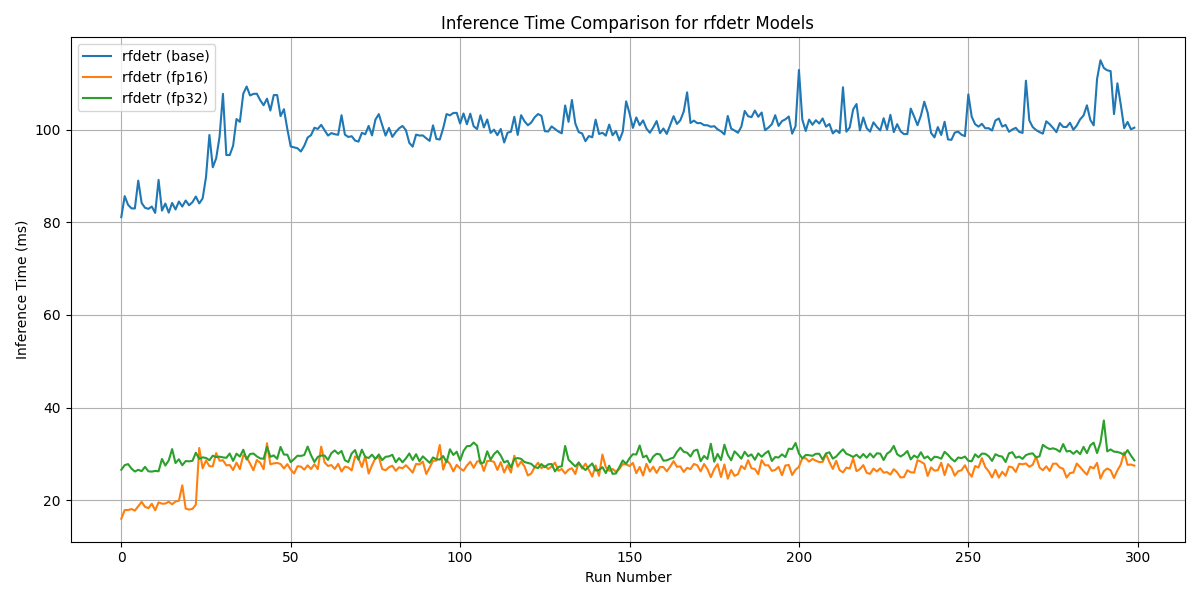
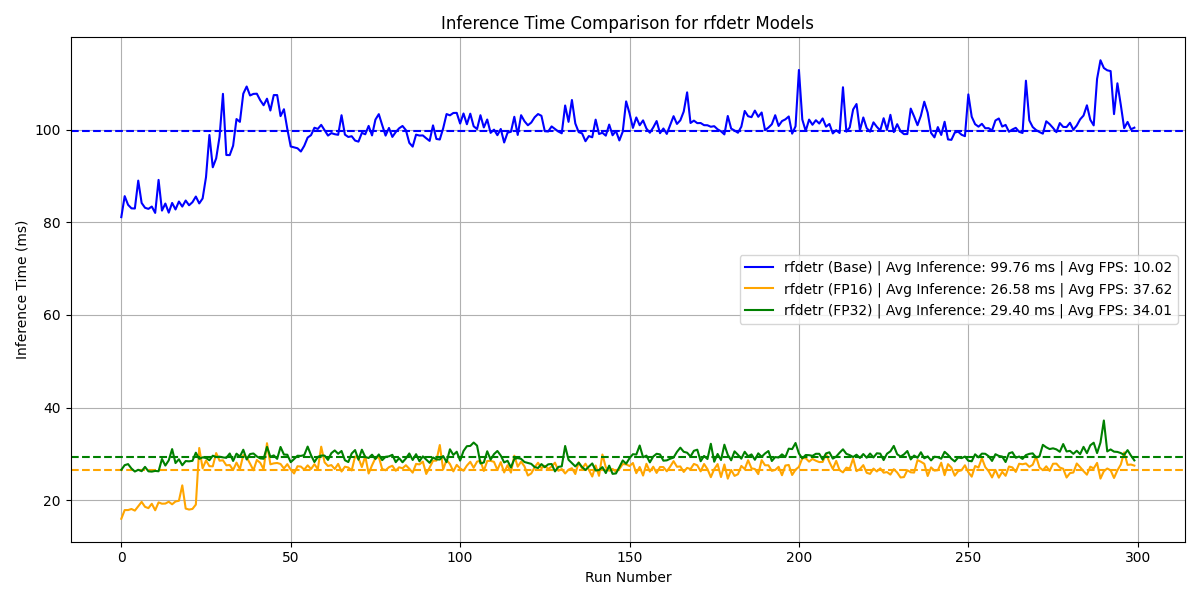
update benchmark plots

diff --git a/diagnostic.py b/diagnostic.py
@@ -2,14 +2,55 @@ from detector import Detector
 from trt_detector import TRTDetector
 from loader import DataLoader
 
-DATA_PATH = 'data/images/DJI_0002/'
-imgIdx = 10
+import matplotlib.pyplot as plt
+import numpy as np
+import pandas as pd
 
-loader = DataLoader(DATA_PATH)
-# loader.preview(imgIdx)
-loader.getImageInfo(imgIdx)
+# DATA_PATH = 'data/images/DJI_0002/'
+# imgIdx = 10
 
-rfdetr_base = Detector(modelName='rfdetr', confidenceThreshold=0.7)
-rfdetr_base.predict(loader[imgIdx], show=True, verbose=True)
-rfdetr_fp16 = TRTDetector(modelName='rfdetr', precision='fp16', confidenceThreshold=0.7)
-rfdetr_fp16.predict(loader[imgIdx], show=True, verbose=True)
+# loader = DataLoader(DATA_PATH)
+# # loader.preview(imgIdx)
+# loader.getImageInfo(imgIdx)
+
+# rfdetr_base = Detector(modelName='rfdetr', confidenceThreshold=0.7)
+# rfdetr_base.predict(loader[imgIdx], show=True, verbose=True)
+# rfdetr_fp16 = TRTDetector(modelName='rfdetr', precision='fp16', confidenceThreshold=0.7)
+# rfdetr_fp16.predict(loader[imgIdx], show=True, verbose=True)
+
+def benchmarkPlot(modelName):
+
+    baseFile = f'benchmarks/{modelName}_baseline.csv'
+    fp16File = f'benchmarks/{modelName}_fp16_benchmark.csv'
+    fp32File = f'benchmarks/{modelName}_fp32_benchmark.csv'
+
+    baseDf = pd.read_csv(baseFile)
+    fp16Df = pd.read_csv(fp16File)
+    fp32Df = pd.read_csv(fp32File)
+
+    plt.figure(figsize=(12, 6))
+    plt.xlabel('Run Number')
+    plt.ylabel('Inference Time (ms)')
+
+    plt.plot(np.arange(len(baseDf)), baseDf['Inference Time (ms)'], label=f'{modelName} (Base) | Avg Inference: {baseDf["Inference Time (ms)"].mean():.2f} ms | Avg FPS: {1000/baseDf["Inference Time (ms)"].mean():.2f}', color='blue', linestyle='-')
+    plt.axhline(y=baseDf['Inference Time (ms)'].mean(), color='blue', linestyle='--')
+
+    plt.plot(np.arange(len(fp16Df)), fp16Df['Inference Time (ms)'], label=f'{modelName} (FP16) | Avg Inference: {fp16Df["Inference Time (ms)"].mean():.2f} ms | Avg FPS: {1000/fp16Df["Inference Time (ms)"].mean():.2f}', color='orange', linestyle='-')
+    plt.axhline(y=fp16Df['Inference Time (ms)'].mean(), color='orange', linestyle='--')
+
+    plt.plot(np.arange(len(fp32Df)), fp32Df['Inference Time (ms)'], label=f'{modelName} (FP32) | Avg Inference: {fp32Df["Inference Time (ms)"].mean():.2f} ms | Avg FPS: {1000/fp32Df["Inference Time (ms)"].mean():.2f}', color='green', linestyle='-')
+    plt.axhline(y=fp32Df['Inference Time (ms)'].mean(), color='green', linestyle='--')
+
+    plt.title(f'Inference Time Comparison for {modelName} Models')
+    plt.legend()
+    plt.grid()
+    plt.tight_layout()
+    plt.savefig(f'benchmarks/{modelName}_inference_comparison.png')
+    plt.show()
+    plt.close()
+
+benchmarkPlot('rfdetr')
+benchmarkPlot('yolov11')
+
+
+
